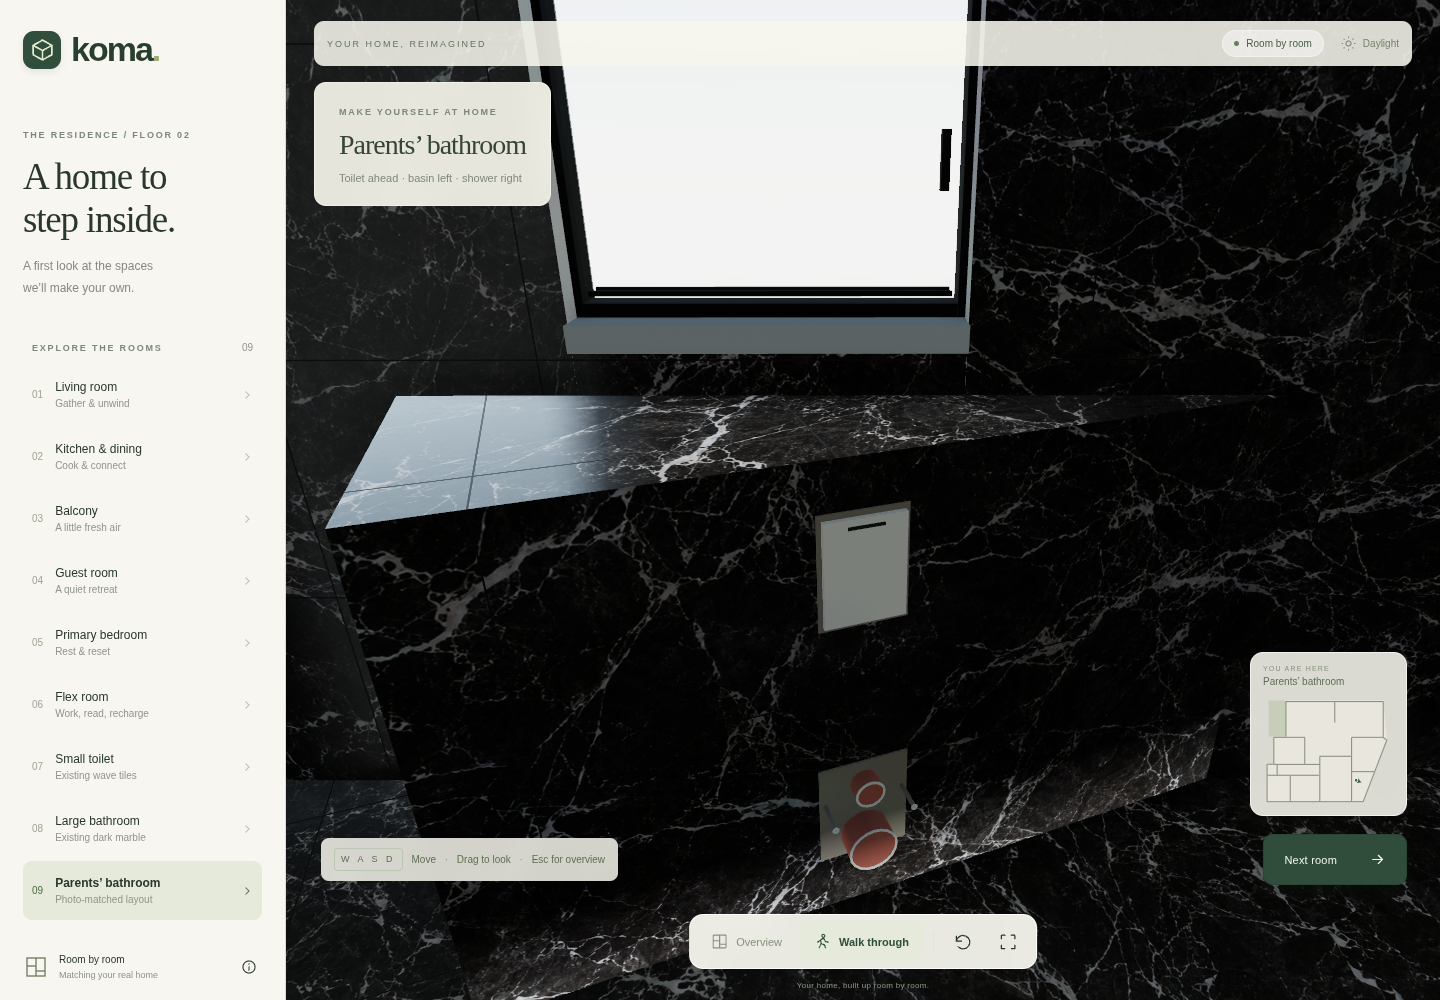
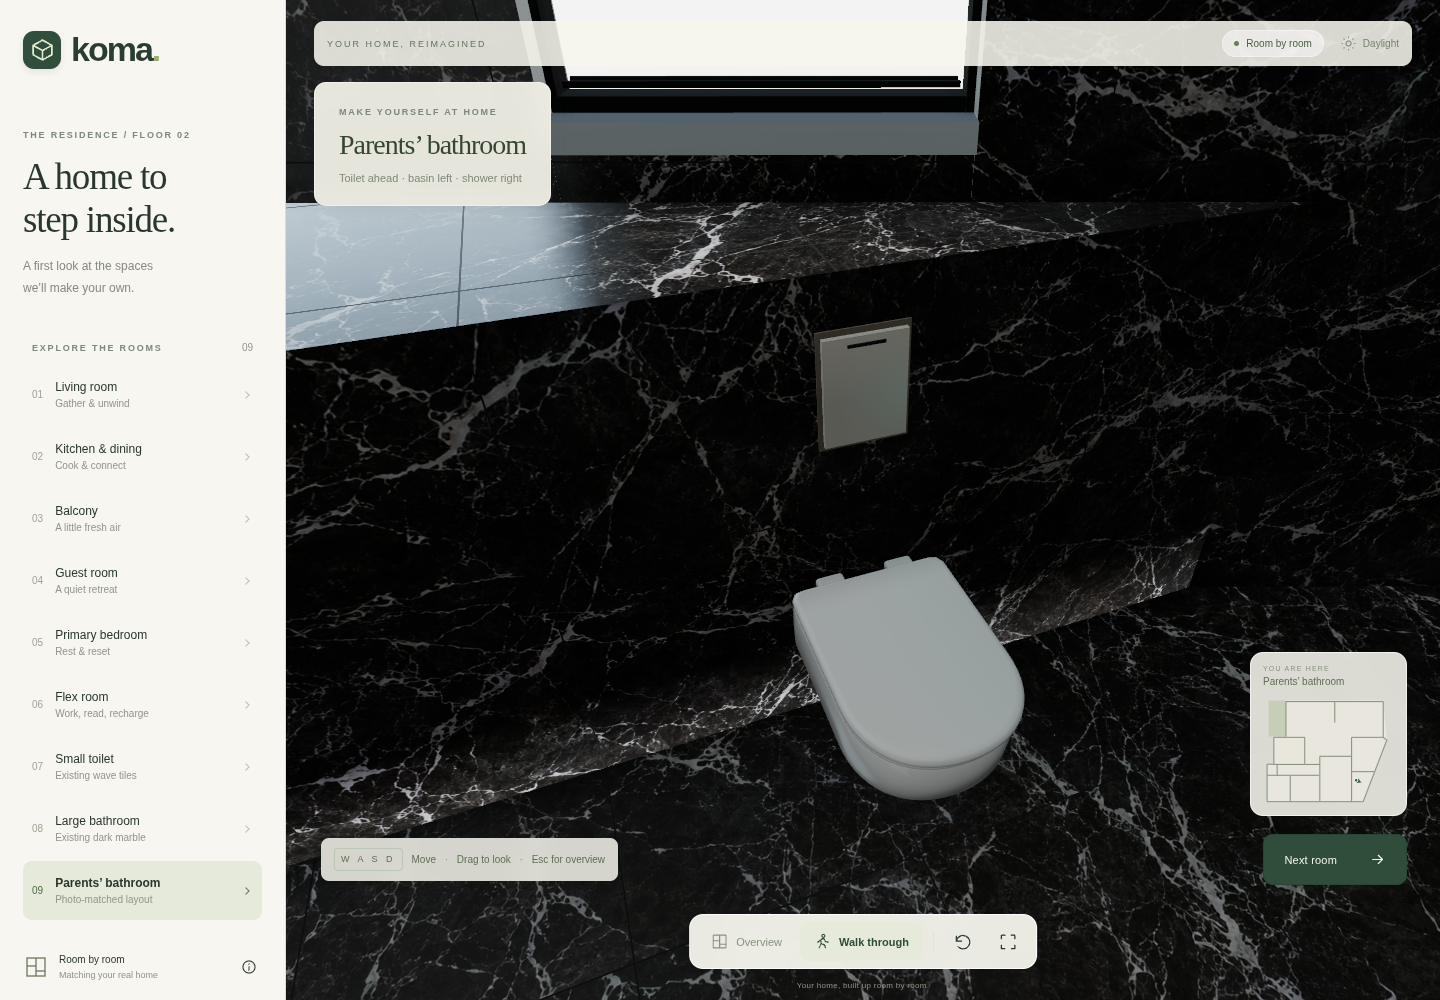
Extend parents bathroom ledge and add reference wall-hung toilet

diff --git a/src/main.js b/src/main.js
@@ -61,7 +61,7 @@ document.querySelector("#app").innerHTML = `
     <div id="loading"><span class="loading-mark">${icon("volume")}</span><strong>Making room for you.</strong><span>Preparing your home…</span></div>
     <div id="toast" role="status"></div>
   </main>
-  <dialog id="about-dialog" aria-labelledby="about-title"><button id="close-about" class="icon-button dialog-close" aria-label="Close details">${icon("close")}</button><span class="eyebrow">ROOM BY ROOM</span><h2 id="about-title">A starting point.<br>A place for possibilities.</h2><p>The layout is traced from your <strong>koma-b.pdf</strong> floor plan. We are building up the rooms from your real space. The first additions are a 65-inch TV facing the living room and 5 cm floor-matching skirting outside the bathrooms. The 1 × 1 m grey floor tiles, black frames, shutter covers, small-toilet wave tiles, and dark marble in both bathrooms now follow your photos. The parents’ bathroom also includes the triangular tiled ledge and existing plumbing positions.</p><dl><dt>Based on the plan</dt><dd>Room arrangement, the balcony, major openings, the angled façade, and the stairwell position.</dd><dt>Still to confirm</dt><dd>Ceilings are assumed to be 2.80 m high. The balcony doorway is estimated at 1.60 m wide from the tile grid and photos. The bathrooms share the photographed dark marble. Their 60 cm tile spacing is provisional; window heights and exact tile sizes still need measurements. Unphotographed rooms remain provisional.</dd><dt>One floor to explore</dt><dd>The stairs are shown for context. This walkthrough stays on the floor in the supplied plan; the stairwell is closed to walking.</dd></dl><p class="small-print">This is a design visualisation, not a measured survey or construction drawing.</p><button class="dialog-done" id="dialog-done">Back to exploring ${icon("arrow")}</button></dialog>
+  <dialog id="about-dialog" aria-labelledby="about-title"><button id="close-about" class="icon-button dialog-close" aria-label="Close details">${icon("close")}</button><span class="eyebrow">ROOM BY ROOM</span><h2 id="about-title">A starting point.<br>A place for possibilities.</h2><p>The layout is traced from your <strong>koma-b.pdf</strong> floor plan. We are building up the rooms from your real space. The first additions are a 65-inch TV facing the living room and 5 cm floor-matching skirting outside the bathrooms. The 1 × 1 m grey floor tiles, black frames, shutter covers, small-toilet wave tiles, and dark marble in both bathrooms now follow your photos. The parents’ bathroom includes the continuous triangular tiled ledge, the white wall-hung toilet from your reference, and the existing plumbing positions.</p><dl><dt>Based on the plan</dt><dd>Room arrangement, the balcony, major openings, the angled façade, and the stairwell position.</dd><dt>Still to confirm</dt><dd>Ceilings are assumed to be 2.80 m high. The balcony doorway is estimated at 1.60 m wide from the tile grid and photos. The bathrooms share the photographed dark marble. Their 60 cm tile spacing is provisional; window heights and exact tile sizes still need measurements. Unphotographed rooms remain provisional.</dd><dt>One floor to explore</dt><dd>The stairs are shown for context. This walkthrough stays on the floor in the supplied plan; the stairwell is closed to walking.</dd></dl><p class="small-print">This is a design visualisation, not a measured survey or construction drawing.</p><button class="dialog-done" id="dialog-done">Back to exploring ${icon("arrow")}</button></dialog>
 `;
 
 let renderer;
@@ -213,7 +213,7 @@ function visit(id) {
         ? ensuitePlumbing.toilet
         : room.look;
   yaw = Math.atan2(-(look[0] - room.point[0]), -(look[1] - room.point[1]));
-  pitch = room.id === "ensuite" ? -0.42 : -0.12;
+  pitch = room.id === "ensuite" ? -0.65 : -0.12;
   camera.rotation.set(pitch, yaw, 0, "YXZ");
   updateRoomUI(room);
   closeRooms();

diff --git a/src/toilet.js b/src/toilet.js
@@ -1,0 +1,136 @@
+import * as THREE from "three";
+import { RoundedBoxGeometry } from "three/addons/geometries/RoundedBoxGeometry.js";
+import { ensuiteToilet } from "./ensuite-layout.js";
+
+// The reference has a straight rear edge, soft corners and a broad D-shaped
+// front. Loft matching contours to give the ceramic a rounded underside.
+const outline = new THREE.Shape();
+outline.moveTo(-0.425, 0);
+outline.lineTo(0.425, 0);
+outline.quadraticCurveTo(0.5, 0, 0.5, 0.055);
+outline.lineTo(0.5, 0.63);
+outline.bezierCurveTo(0.5, 0.86, 0.3, 1, 0, 1);
+outline.bezierCurveTo(-0.3, 1, -0.5, 0.86, -0.5, 0.63);
+outline.lineTo(-0.5, 0.055);
+outline.quadraticCurveTo(-0.5, 0, -0.425, 0);
+const contour = outline.getSpacedPoints(80).slice(0, -1);
+
+function loft(profiles) {
+  const positions = [],
+    uv = [],
+    indices = [];
+  const count = contour.length;
+  for (const [height, width, depth, back] of profiles) {
+    for (const point of contour) {
+      positions.push(point.x * width, height, back + point.y * depth);
+      uv.push(point.x + 0.5, point.y);
+    }
+  }
+  for (let ring = 0; ring < profiles.length - 1; ring++) {
+    for (let i = 0; i < count; i++) {
+      const a = ring * count + i,
+        b = ring * count + ((i + 1) % count);
+      indices.push(a, a + count, b, b, a + count, b + count);
+    }
+  }
+  for (const ring of [0, profiles.length - 1]) {
+    const [height, , depth, back] = profiles[ring];
+    const center = positions.length / 3;
+    positions.push(0, height, back + depth / 2);
+    uv.push(0.5, 0.5);
+    for (let i = 0; i < count; i++) {
+      const a = ring * count + i,
+        b = ring * count + ((i + 1) % count);
+      indices.push(center, ring === 0 ? a : b, ring === 0 ? b : a);
+    }
+  }
+  const geometry = new THREE.BufferGeometry();
+  geometry.setAttribute(
+    "position",
+    new THREE.Float32BufferAttribute(positions, 3),
+  );
+  geometry.setAttribute("uv", new THREE.Float32BufferAttribute(uv, 2));
+  geometry.setIndex(indices);
+  geometry.computeVertexNormals();
+  return geometry;
+}
+
+export function buildToilet(group, add, { ceramic, seat, seal, chrome }) {
+  const { width, projection, height } = ensuiteToilet;
+  // Profile coordinates are fractions of the owner's estimated overall size.
+  const surface = (profiles, mat) =>
+    add(
+      group,
+      loft(
+        profiles.map(([y, w, d, back]) => [
+          y * height,
+          w * width,
+          d * projection,
+          back * projection,
+        ]),
+      ),
+      mat,
+      0,
+      0,
+      0,
+    );
+  surface(
+    [
+      [0.4, 0.55, 0.48, 0.006],
+      [0.42, 0.72, 0.66, 0.004],
+      [0.49, 0.88, 0.83, 0.003],
+      [0.62, 0.97, 0.94, 0.002],
+      [0.78, 0.98, 0.965, 0.002],
+      [0.87, 0.97, 0.96, 0.002],
+      [0.89, 0.945, 0.94, 0.003],
+      [0.892, 0.91, 0.915, 0.012],
+    ],
+    ceramic,
+  );
+  // Small physical gaps and separate beveled seat/lid keep the silhouette
+  // readable against the white glaze without drawing a dark outline on it.
+  surface(
+    [
+      [0.897, 0.935, 0.925, 0.04],
+      [0.905, 0.935, 0.925, 0.04],
+    ],
+    seal,
+  );
+  surface(
+    [
+      [0.907, 0.96, 0.935, 0.036],
+      [0.913, 0.98, 0.949, 0.031],
+      [0.936, 0.98, 0.949, 0.031],
+      [0.944, 0.96, 0.935, 0.036],
+    ],
+    seat,
+  );
+  surface(
+    [
+      [0.954, 0.975, 0.943, 0.041],
+      [0.963, 1, 0.96, 0.04],
+      [0.983, 1, 0.96, 0.04],
+      [0.996, 0.973, 0.94, 0.047],
+      [1, 0.925, 0.9, 0.062],
+    ],
+    seat,
+  );
+  for (const x of [-0.082, 0.082]) {
+    add(
+      group,
+      new THREE.CylinderGeometry(0.022, 0.022, 0.004, 32),
+      chrome,
+      x,
+      height * 0.897,
+      0.022,
+    );
+    add(
+      group,
+      new RoundedBoxGeometry(0.065, 0.023, 0.034, 3, 0.009),
+      seat,
+      x,
+      height * 0.972,
+      0.014,
+    );
+  }
+}

diff --git a/src/ensuite.js b/src/ensuite.js
@@ -5,9 +5,9 @@ import {
 } from "./ensuite-layout.js";
 import { daylightUV, floorBounds } from "./daylight-layout.js";
 import { HEIGHT, walls } from "./plan.js";
+import { buildToilet } from "./toilet.js";
 
-// Existing construction details only: protective caps and access cover, with
-// no selected toilet, vanity, shower enclosure or finished tapware yet.
+// Photo-referenced construction details and the owner's selected toilet.
 export function buildEnsuite(parent, finishes) {
   const tile = finishes.marbleEnsuite;
   const material = (color, roughness = 0.8, metalness = 0) =>
@@ -20,11 +20,33 @@ export function buildEnsuite(parent, finishes) {
     });
   const plastic = material("#e4e0d4"),
     mortar = material("#938a7b"),
-    cap = material("#bb7060"),
     pipe = material("#9b9184", 0.65, 0.2),
     dark = material("#393b38"),
     steel = material("#a7aaa5", 0.38, 0.55);
-  const materials = [plastic, mortar, cap, pipe, dark, steel];
+  const ceramic = new THREE.MeshPhysicalMaterial({
+    color: "#fafaf7",
+    roughness: 0.17,
+    clearcoat: 0.35,
+    clearcoatRoughness: 0.13,
+    lightMap: tile.lightMap,
+    lightMapIntensity: tile.lightMapIntensity,
+  });
+  const seat = ceramic.clone();
+  seat.roughness = 0.22;
+  seat.clearcoat = 0.2;
+  const seal = material("#787a78", 0.85);
+  const chrome = material("#dedfdf", 0.16, 0.95);
+  const materials = [
+    plastic,
+    mortar,
+    pipe,
+    dark,
+    steel,
+    ceramic,
+    seat,
+    seal,
+    chrome,
+  ];
   const shape = new THREE.Shape(
     boxing.polygon.map(([x, z]) => new THREE.Vector2(x, -z)),
   );
@@ -113,10 +135,7 @@ export function buildEnsuite(parent, finishes) {
     add(g, ring, plastic, x, y, projection + 0.001);
   }
   const wc = mount(plumbing.toilet, -Math.PI / 2, frontUV);
-  box(wc, 0.205, 0.255, 0.004, 0, 0.29, 0.004, mortar);
-  port(wc, 0, 0.22, 0.055, cap, 0.065);
-  port(wc, 0, 0.36, 0.032, cap, 0.045);
-  for (const x of [-0.09, 0.09]) port(wc, x, 0.32, 0.005, pipe, 0.075);
+  buildToilet(wc, add, { ceramic, seat, seal, chrome });
   box(wc, 0.188, 0.25, 0.004, 0, 0.89, 0.004, mortar);
   box(wc, 0.17, 0.226, 0.012, 0, 0.89, 0.012, plastic);
   box(wc, 0.075, 0.006, 0.003, 0, 0.986, 0.02, dark);

diff --git a/tests/navigation.test.js b/tests/navigation.test.js
@@ -16,9 +16,10 @@ import {
   ensuiteBox,
   ensuiteObstacles,
   ensuitePlumbing,
+  ensuiteToilet,
 } from "../src/ensuite-layout.js";
 
-test("triangular cistern boxing blocks walking while basin and shower approaches stay clear", () => {
+test("extended boxing and toilet block walking while basin and shower approaches stay clear", () => {
   for (const room of rooms)
     assert.ok(canOccupy(...room.point, ensuiteObstacles), room.id);
   const [x, z] = ensuitePlumbing.toilet;
@@ -30,7 +31,7 @@ test("triangular cistern boxing blocks walking while basin and shower approaches
   assert.equal(
     canOccupy(x - 0.1, z, ensuiteObstacles),
     false,
-    "body clearance from front face",
+    "installed toilet",
   );
   const approach = moveWithCollision(
     { x: x - 0.8, z },
@@ -38,8 +39,17 @@ test("triangular cistern boxing blocks walking while basin and shower approaches
     0,
     ensuiteObstacles,
   );
-  assert.ok(approach.x <= ensuiteBox.frontX - 0.18);
+  assert.ok(approach.x <= ensuiteBox.frontX - ensuiteToilet.projection - 0.18);
   assert.ok(canOccupy(approach.x, approach.z, ensuiteObstacles));
+  assert.equal(
+    canOccupy(
+      ensuiteBox.frontX + 0.3,
+      ensuiteBox.startZ + 0.3,
+      ensuiteObstacles,
+    ),
+    false,
+    "left recess is filled by the continued ledge",
+  );
   assert.ok(
     canOccupy(...p(975, 1090), ensuiteObstacles),
     "left basin approach",

diff --git a/src/ensuite-layout.js b/src/ensuite-layout.js
@@ -13,8 +13,9 @@ const inside = [
   facade.a[0] - direction[1] * inset,
   facade.a[1] + direction[0] * inset,
 ];
+// Continue the boxing to the left-hand wall, closing the unbuilt recess.
 const frontX = p(1015, 1114)[0],
-  startZ = p(1015, 1114)[1];
+  startZ = walls[21].a[1] + walls[21].thickness / 2;
 const endZ = inside[1] + ((frontX - inside[0]) * direction[1]) / direction[0];
 const backX = inside[0] + ((startZ - inside[1]) * direction[0]) / direction[1];
 
@@ -38,4 +39,14 @@ export const ensuitePlumbing = {
   shower: [p(943, 1337)[0], p(943, 1337)[1] - walls[4].thickness / 2 - 0.004],
   drain: p(943, 1300),
 };
-export const ensuiteObstacles = [{ polygon: ensuiteBox.polygon }];
+// Approximate proportions of the owner's white, closed-seat wall-hung WC.
+export const ensuiteToilet = { width: 0.36, projection: 0.53, height: 0.43 };
+export const ensuiteObstacles = [
+  { polygon: ensuiteBox.polygon },
+  {
+    x: ensuitePlumbing.toilet[0] - ensuiteToilet.projection / 2,
+    z: ensuitePlumbing.toilet[1],
+    width: ensuiteToilet.projection,
+    depth: ensuiteToilet.width,
+  },
+];

diff --git a/src/world.js b/src/world.js
@@ -521,7 +521,10 @@ export async function buildWorld(scene, renderer) {
   for (const [point, materials] of [
     [p(519, 682), [livingFloorMaterial, tvScreen]],
     [p(225, 1210), [finishes.marbleBath, finishes.floorBath]],
-    [p(960, 1200), [finishes.marbleEnsuite, finishes.floorEnsuite]],
+    [
+      p(960, 1200),
+      [finishes.marbleEnsuite, finishes.floorEnsuite, ...ensuiteMaterials],
+    ],
   ]) {
     const target = new THREE.WebGLCubeRenderTarget(256, {
       type: THREE.HalfFloatType,

diff --git a/README.md b/README.md
@@ -46,7 +46,7 @@ Daylight is baked through the actual openings with four diffuse bounces, so ligh
 - The balcony slider is **approximately 1.60 m frame to frame**, estimated from the tiles/photo proportions. It is shown half open; collision blocks the stacked glass leaves and leaves the other half walkable.
 - The separate small WC opposite the stairs is restored from the plan, with white horizontal-wave wall tiles and a charcoal window wall from the supplied photo. Window dimensions and wave-tile panel sizes are estimates. The larger bathroom remains unfitted.
 - Both the large bathroom and parents’ bathroom use the same dark marble-look porcelain, confirmed by the owner. The albedo texture in `src/assets/dark-marble.png` is generated from the supplied reference, not an exact scan of the installed tiles. Walls are polished and floors less glossy. The **60 × 60 cm bathroom tile grid is provisional**; the living-area one-metre dimension is not assumed for these tiles.
-- The parents’ bathroom follows the owner’s confirmed doorway viewpoint: **toilet/window ahead, basin left, shower right**. A triangular dark-tiled cistern box straightens the angled façade below the window. The existing toilet connections, protective flush access cover, basin connections, shower outlets and square floor drain are modeled; fixture styles have not been selected. The box height (**1.12 m**), window sill (**1.25 m**), box depth and plumbing coordinates are photo estimates. `src/ensuite-layout.js` records these separately from the confirmed relative arrangement; the boxing has its own daylight bake and triangular walking collision.
+- The parents’ bathroom follows the owner’s confirmed doorway viewpoint: **toilet/window ahead, basin left, shower right**. A triangular dark-tiled cistern box straightens the angled façade below the window and continues to the left wall. The owner’s reference toilet is modeled in white glazed ceramic with a closed D-shaped lid, rounded underside and two rear hinges, wall-mounted at the existing connection point. Its **53 cm projection, 36 cm width and 43 cm closed-lid height are estimates**, pending product measurements. The protective flush access cover, basin connections, shower outlets and square floor drain remain visible; the remaining fittings have not been selected. The box height (**1.12 m**), window sill (**1.25 m**), box depth and plumbing coordinates are photo estimates. `src/ensuite-layout.js` records these separately from the confirmed relative arrangement; the boxing has its own daylight bake, and both the box and toilet block walking while leaving the basin and shower accessible.
 - The exterior is a neutral sky gradient; the surrounding buildings have not been reconstructed.
 - Stairs are a visual placeholder. Walking stays on the supplied floor.
 - The “area = 16.0” annotation is not used as an area measurement because its context is unclear.
